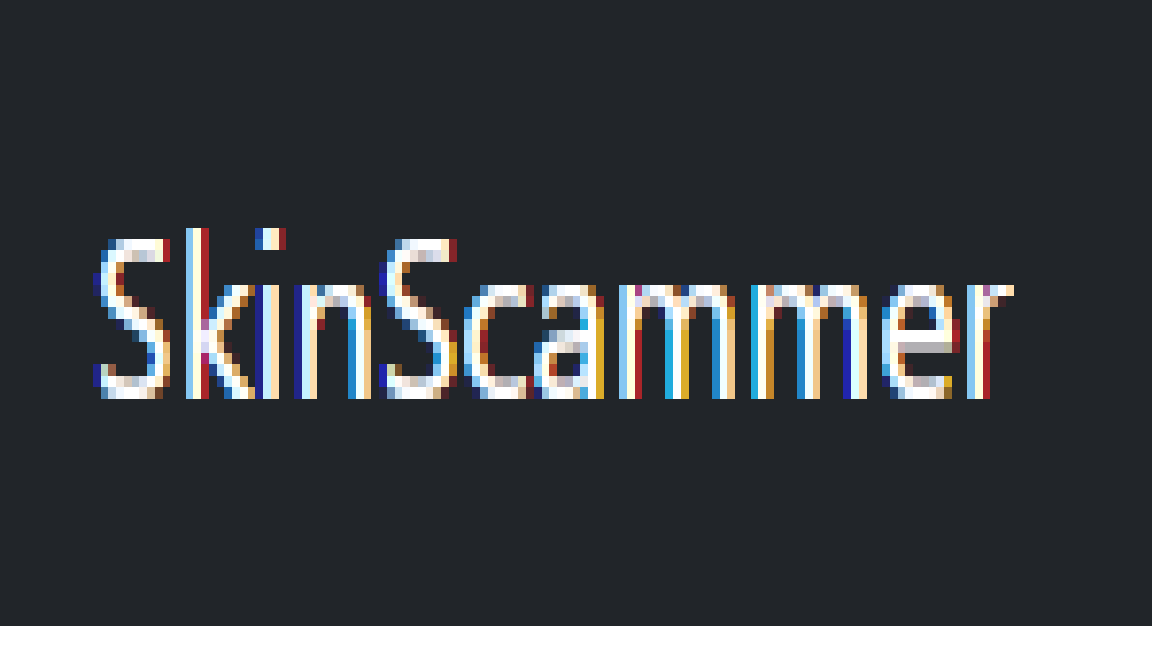
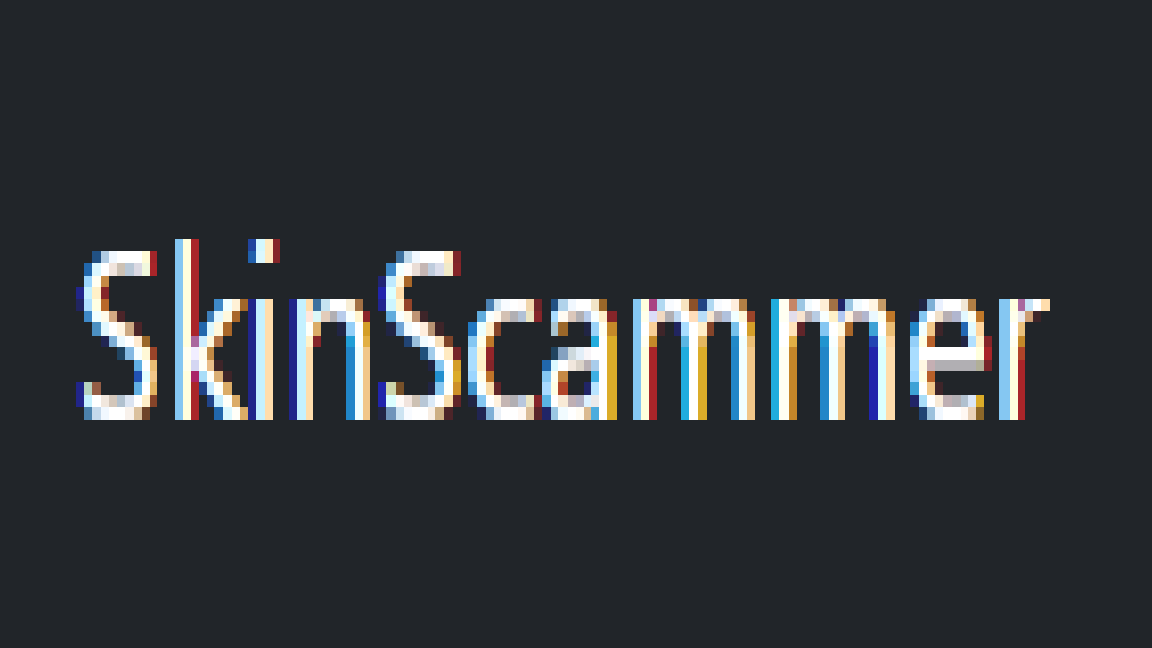
elcseszett verzio

Changed region(s): [[0.0625, 0.3395, 0.9062, 0.6481], [0.0, 0.9568, 1.0, 1.0]]

diff --git a/html/aboutus.html b/html/aboutus.html
@@ -42,6 +42,8 @@
         <p>instagram: <a target="_blank" href="https://www.instagram.com/szabokorneel/">oldalunk(the boss)</a></p>
         <p>youtube: <a target="_blank" href="https://www.youtube.com/c/G%C3%A9merPolisz">youtube csatornánk</a></p>
     </div>
+    
+    
 
     <div class="col-9">
         <img src="/pictures/aboutus/skinscammer.png" alt="skinscammer">

diff --git a/css/astyle.css b/css/astyle.css
@@ -1,3 +1,8 @@
+body{
+    background-image: url(/pictures/aboutus/background.webp);
+    color: azure;
+}
+
 .row{
     margin-top: 200px;
 }

diff --git a/html/css/astyle.css b/html/css/astyle.css
@@ -1,0 +1,3 @@
+.row{
+    margin-top: 200px;
+}
